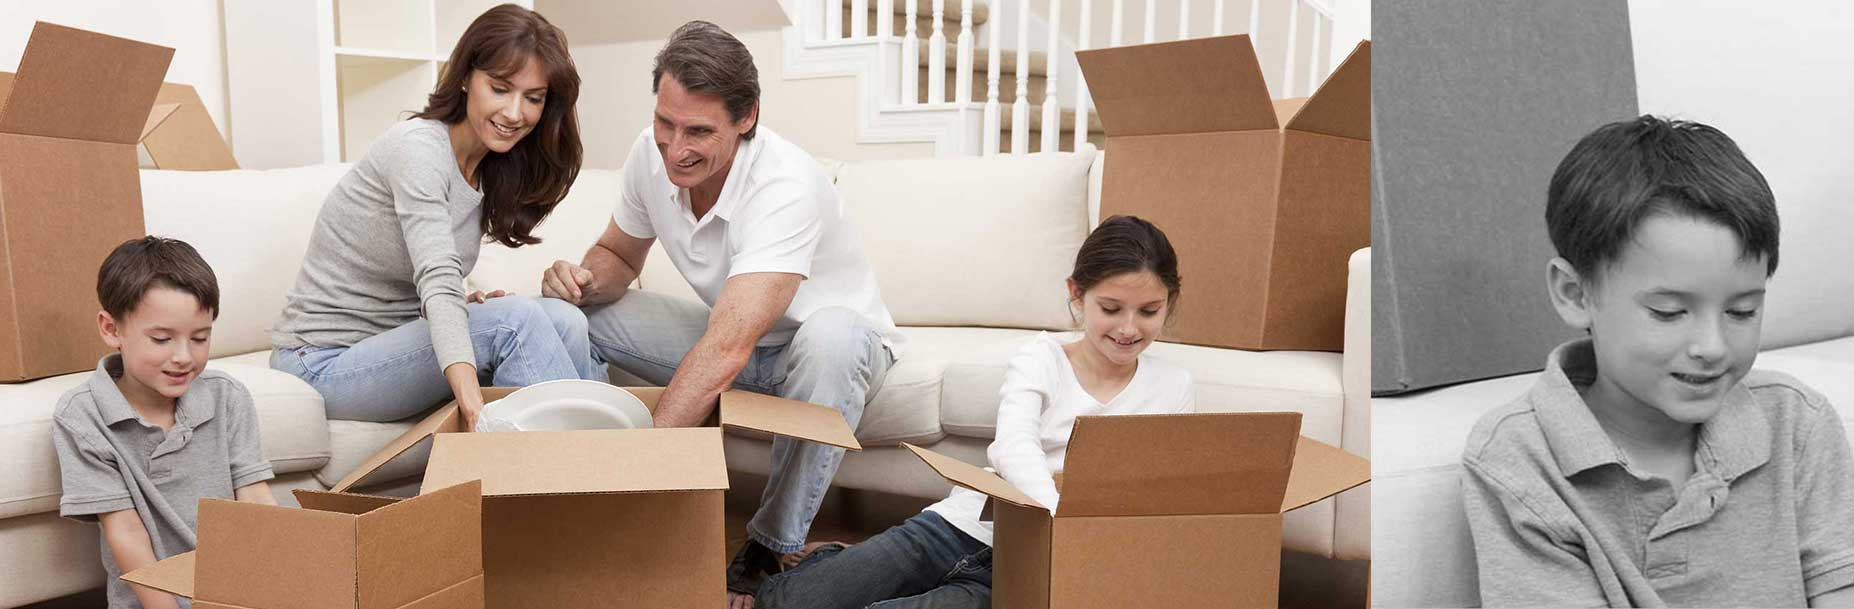
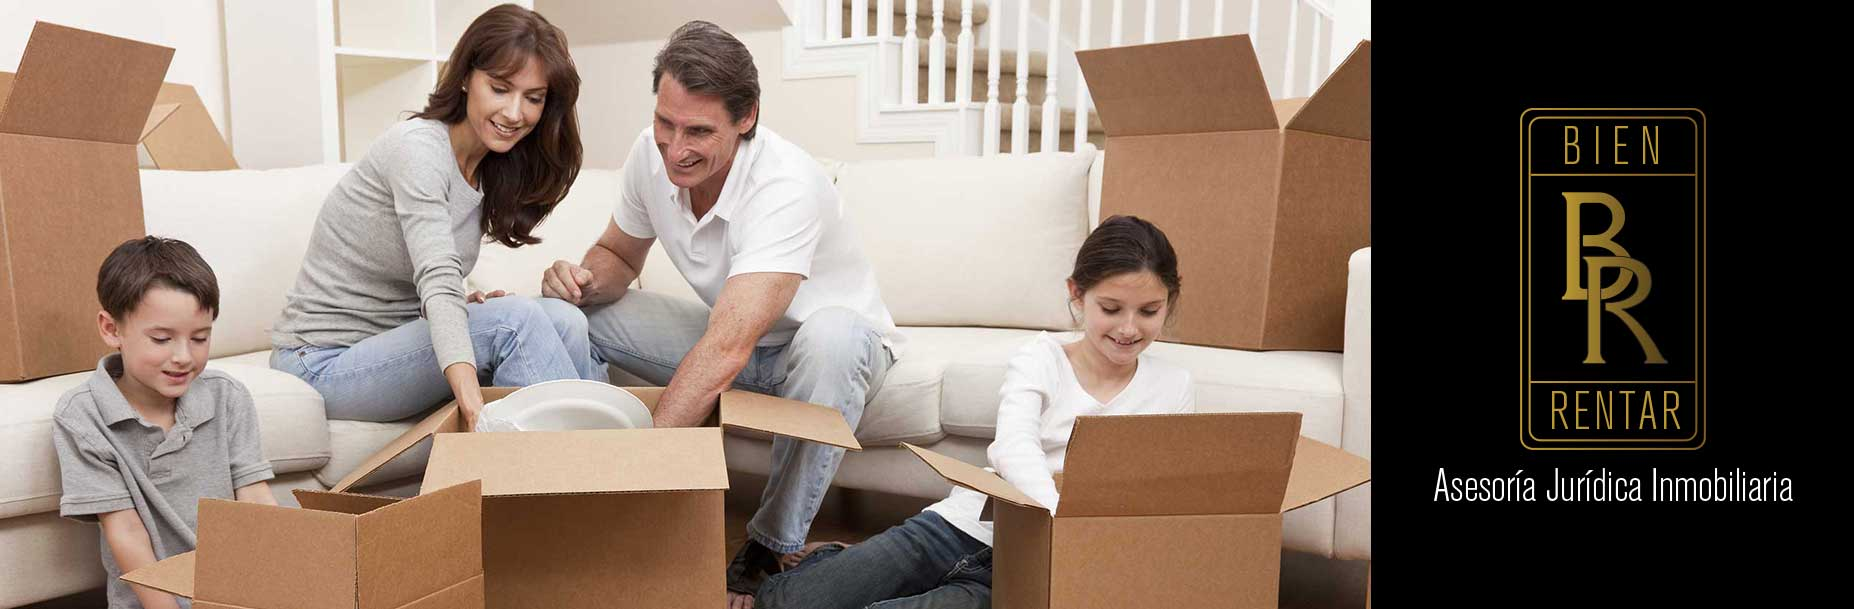
[Index] Cambios 3

Changed region(s): [[0.7379, 0.0, 1.0, 1.0]]

diff --git a/less/style.less b/less/style.less
@@ -80,7 +80,7 @@ body{
 	font-family: @primaryFontFamily;
 	-webkit-font-smoothing: antialiased;
 	-moz-osx-font-smoothing: grayscale;
-	background-color: @gray;
+	background-color: @black;
 }
 
 h1, h2, h3, h4, h5, h6{ font-family: 'DellaRespira'; }
@@ -190,15 +190,16 @@ blockquote{
 				.transition;
 
 				&:hover {
-					color: @gold;
-					border: 1px solid @gold;
+					color: @white;
+					background-color: @black;
+					border: 1px solid @black;
 					border-radius: 3px 3px 0 0;
 					.transition;
 				}
 			}
 
 			&:nth-last-child(1) {
-				background-color: @gold;
+				background-color: @black;
 				border-radius: 3px 3px 0 0;
 				.transition;
 
@@ -215,9 +216,9 @@ blockquote{
 	}//ul
 
 	.current_page_item a {
-		border: 1px solid #ba993b !important;
-		border-left: 3px solid #ba993b !important;
-		border-bottom: 1px solid #ba993b !important;
+		border: 1px solid @black !important;
+		border-left: 3px solid @black !important;
+		border-bottom: 1px solid @gold !important;
 		border-radius: 3px 3px 0 0 !important;
 		margin-bottom: 2px !important;
 	}//.current_page_item a
@@ -405,7 +406,7 @@ blockquote{
 // ====================================
 
 #beneficios{
-	background-color: @brown;
+	background-color: @black;
 	color: @white;
 	overflow: hidden;
 	position: relative;
@@ -537,7 +538,7 @@ iframe {
 // ====================================
 
 #main-footer{
-	background-color: @gray;
+	background-color: @black;
 	display: table;
 	width: 100%;
 
@@ -551,6 +552,7 @@ iframe {
   			margin: 0;
 
   			a {
+  				font-size: 12px;
   				padding: 5px 10px;
   				color: white;
   				display: inline-block;
@@ -561,6 +563,7 @@ iframe {
 
 	.legales {
 		p {
+			font-size: 12px;
 			margin: 5px 0;
 			color: @white; 
 			text-align: right;
@@ -666,6 +669,7 @@ iframe {
 // ====================================
 #search {
 	.white;
+	padding: 50px 0;
 
 	header {
 		background-color: @gold;

diff --git a/css/style.css b/css/style.css
@@ -5992,7 +5992,7 @@ body {
   font-family: "OpenSans", Arial, sans-serif;
   -webkit-font-smoothing: antialiased;
   -moz-osx-font-smoothing: grayscale;
-  background-color: #333333;
+  background-color: #000000;
 }
 h1,
 h2,
@@ -6092,13 +6092,14 @@ blockquote {
   transition: .2s;
 }
 #main-nav ul li a:hover {
-  color: #ba993b;
-  border: 1px solid #ba993b;
+  color: #ffffff;
+  background-color: #000000;
+  border: 1px solid #000000;
   border-radius: 3px 3px 0 0;
   transition: .2s;
 }
 #main-nav ul li:nth-last-child(1) {
-  background-color: #ba993b;
+  background-color: #000000;
   border-radius: 3px 3px 0 0;
   transition: .2s;
 }
@@ -6110,8 +6111,8 @@ blockquote {
   transition: .2s;
 }
 #main-nav .current_page_item a {
-  border: 1px solid #ba993b !important;
-  border-left: 3px solid #ba993b !important;
+  border: 1px solid #000000 !important;
+  border-left: 3px solid #000000 !important;
   border-bottom: 1px solid #ba993b !important;
   border-radius: 3px 3px 0 0 !important;
   margin-bottom: 2px !important;
@@ -6312,7 +6313,7 @@ blockquote {
   transition: .2s;
 }
 #beneficios {
-  background-color: #2d1600;
+  background-color: #000000;
   color: #ffffff;
   overflow: hidden;
   position: relative;
@@ -6417,7 +6418,7 @@ iframe {
   display: none;
 }
 #main-footer {
-  background-color: #333333;
+  background-color: #000000;
   display: table;
   width: 100%;
 }
@@ -6431,12 +6432,14 @@ iframe {
   margin: 0;
 }
 #main-footer ul li a {
+  font-size: 12px;
   padding: 5px 10px;
   color: white;
   display: inline-block;
   text-decoration: underline;
 }
 #main-footer .legales p {
+  font-size: 12px;
   margin: 5px 0;
   color: #ffffff;
   text-align: right;
@@ -6520,6 +6523,7 @@ iframe {
 }
 #search {
   background-color: #ffffff;
+  padding: 50px 0;
 }
 #search header {
   background-color: #ba993b;

diff --git a/style.css b/style.css
@@ -1,5 +1,5 @@
 /******************************************************************
-Theme Name: FTScratch-Nw (NOMBRE DEL CLIENTE)
+Theme Name: Bien-Rentar
 Theme URI: http://www.nuevaweb.com.mx
 Description: Tema diseñado y desarrollado exclusivamente para "(NOMBRE DEL CLIENTE)" por NuevaWeb 2014.
 Author: <a href="http://www.nuevaweb.com.mx">the NuevaWeb team</a>

diff --git a/footer.php b/footer.php
@@ -6,7 +6,7 @@
 					</div><!--.col-sm-6-->
 					<div class="clearfix visible-xs"></div><!--.clearfic-->
 					<div class="col-sm-7 legales">
-						<p>&#169; BIENRENTAR 2015 Todos los Derechos Reservados. Sitio web desarrollado por <a href="#">NuevaWeb</a></p>
+						<p>&#169; BIENRENTAR 2015 Todos los Derechos Reservados. Sitio web desarrollado por <a href="http://www.nuevaweb.com.mx/">NuevaWeb</a></p>
 					</div><!--.legales-->
 				</div><!--.row-->
 			</div><!--.container-->
